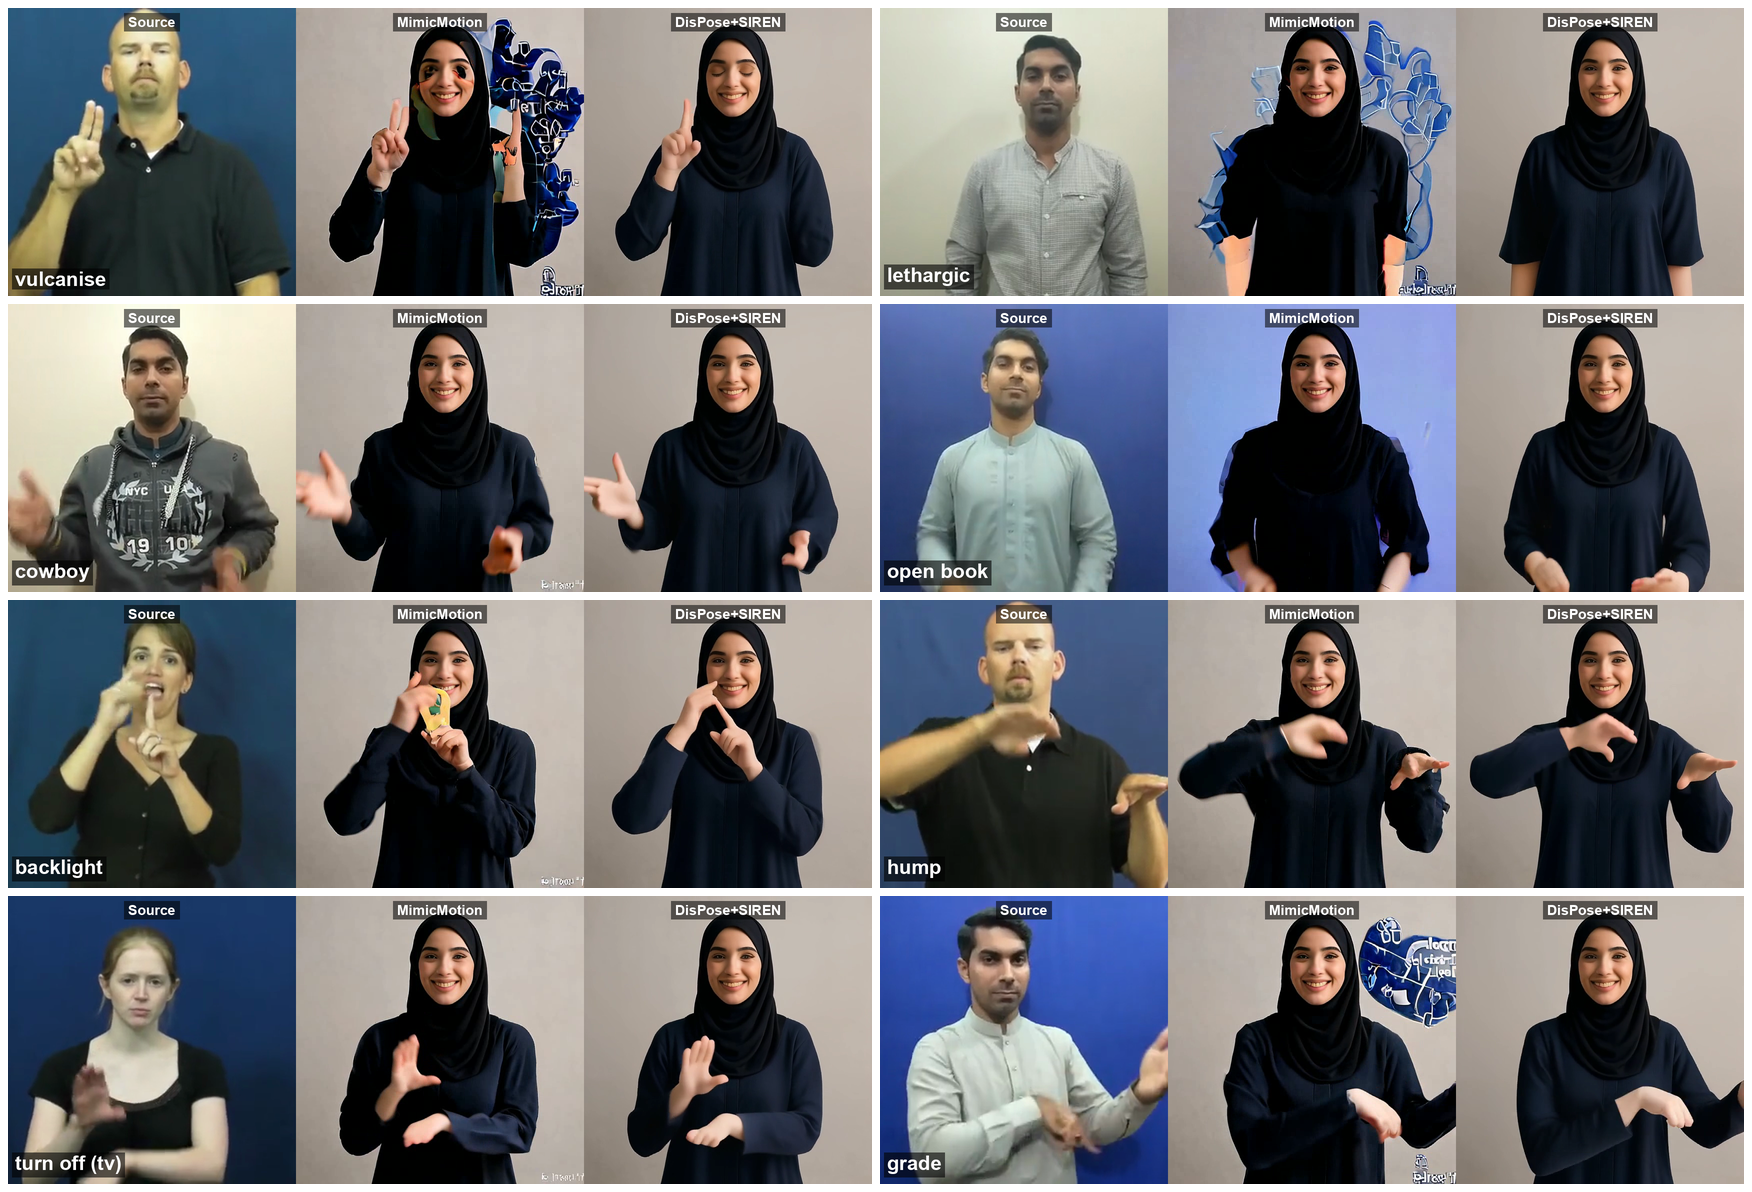
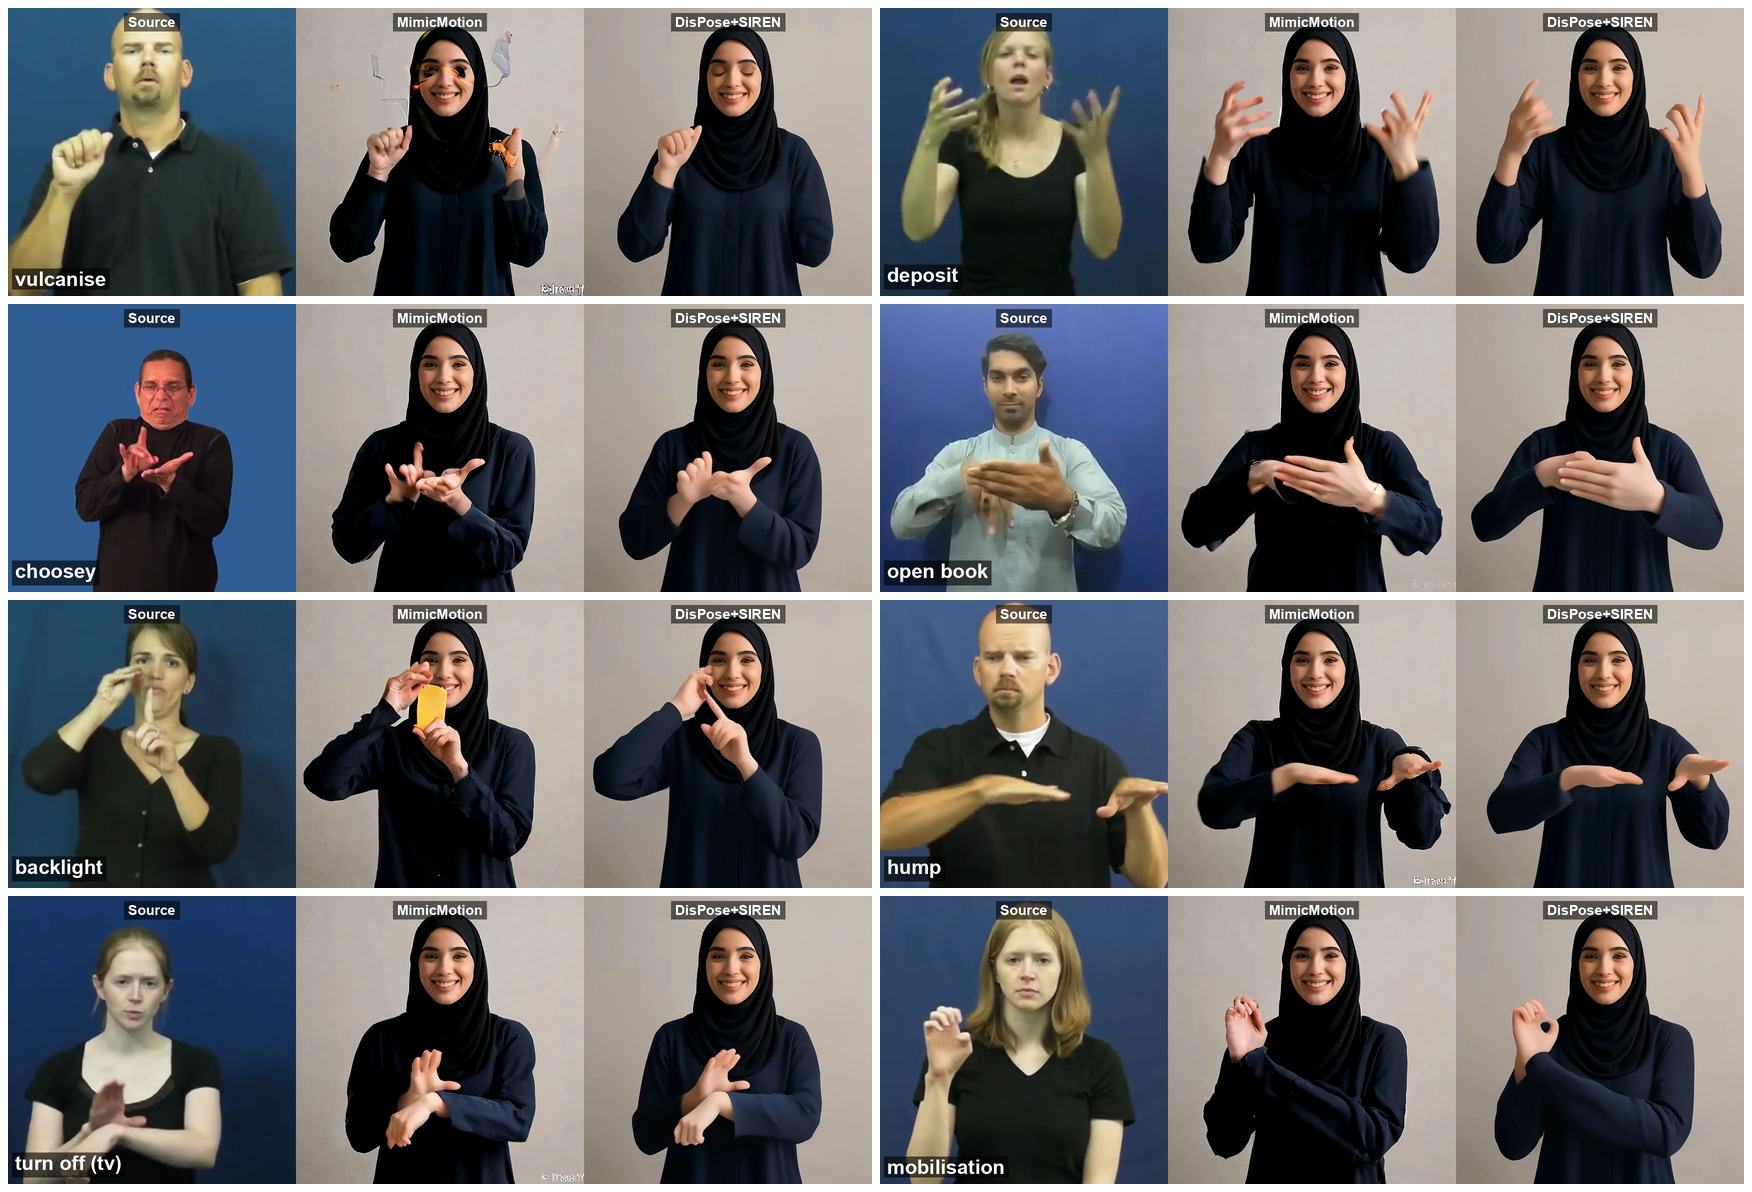
fix: qualitative grid v2 — SIREN panels now crisp hold frames
User verdict on v1: MM panels appropriately bad, but SIREN hands still
motion-blurred (e.g. hump). v2 protocol: candidate frames = local minima of
the SIREN video's frame-difference motion (sign-language holds, no blur),
then contact-sheet eyeball for max MM-broken/SIREN-crisp contrast at the
same source instant. Clips whose MM stays clean at holds dropped
(cowboy/grade/lethargic), replaced by deposit/choosey/mobilisation from the
same hard27k pilot pool.

diff --git a/scripts/hand_pilot/make_qual_grid.py b/scripts/hand_pilot/make_qual_grid.py
@@ -27,19 +27,21 @@ OUT = ROOT / "outputs/sign_cmp_hard27k"
 PANEL = 576          # working panel size; tile is downscaled 2x at the end
 PAD, MARGIN = 8, 8   # grid spacing (at final scale), matches original figure
 
-# (clip id, source frame index, gloss). Clips = the 8 mm_failures_grid picks;
-# frames re-picked 2026-07-11 from 12-candidate contact sheets to maximise the
-# MM-failure vs SIREN-clean-hand contrast at the SAME source instant
-# (mm_failures_grid frames kept where already optimal).
+# (clip id, source frame index, gloss). Clips drawn from the 15 hard27k pilot
+# clips (12 usable: podia's SIREN mp4 is corrupt, 2 clips lack gloss labels).
+# Frames picked 2026-07-11, v2 protocol: candidates = per-clip local minima of
+# the SIREN video's frame-difference motion (holds -> no motion blur), then
+# eyeballed on Source/MM/SIREN contact sheets for max "MM broken, SIREN crisp
+# handshape" contrast at the SAME source instant.
 SPECS = [
-    ("0bsujxxpwd", 425, "vulcanise"),      # MM: text-artifact burst
-    ("07imqjgcxc", 99, "lethargic"),       # MM: graffiti bg + arm stumps
-    ("05tcw2nou9", 35, "cowboy"),          # SIREN nails finger-gun, MM palm blob
-    ("0byrxo0heb", 56, "open book"),       # MM: source-background leakage
-    ("0db3uk2cqw", 150, "backlight"),      # MM: hallucinated yellow object
-    ("0bcxsenqga", 166, "hump"),           # SIREN arched-hand-over-palm, MM claw blur
-    ("0ihmqp5iz6", 53, "turn off (tv)"),   # SIREN L-hand on wrist, MM blob claw
-    ("0ejbehccd4", 21, "grade"),           # MM: text blob + fist smear
+    ("0bsujxxpwd", 446, "vulcanise"),      # MM text burst; SIREN crisp V-hand
+    ("03os6hy28y", 15, "deposit"),         # MM mangles double claw; SIREN bent fingers separated
+    ("0gjpljgpdj", 33, "choosey"),         # MM fingers tangled; SIREN clean thumb-hands
+    ("0byrxo0heb", 44, "open book"),       # MM finger smears + blue bg tint; SIREN spread-over-palm
+    ("0db3uk2cqw", 161, "backlight"),      # MM hallucinated yellow object; SIREN point-at-palm
+    ("0bcxsenqga", 117, "hump"),           # MM fuses fingers into slab; SIREN flat palm, fingers clear
+    ("0ihmqp5iz6", 59, "turn off (tv)"),   # MM blob claw on wrist; SIREN L-hand on wrist
+    ("0hwhrmyqqx", 98, "mobilisation"),    # MM claw blob; SIREN crisp OK-ring hand
 ]
 
 FONT_PATHS = [

diff --git a/docs/experiments/siren_hand/qualitative.md b/docs/experiments/siren_hand/qualitative.md
@@ -22,43 +22,50 @@
 
 ## 2. 选帧协议(showcase,须披露)
 
-8 个词条沿用 `baseline/qualitative.md` §7 `mm_failures_grid.png` 的 clip 选择
-(MimicMotion 失败最典型的难例)。帧号在每条 clip 的 12 候选帧接触表
-(Source/MM/SIREN 三行)上目检重挑,判据 = **同一时刻 MM 失败明显且 SIREN
-手部干净**;4 条旧帧已最优保留,4 条更换:
+clip 池 = hard27k 15 条 pilot(`baseline/qualitative.md` §7;实际可用 12 条:
+podia 的 SIREN mp4 传输损坏,2 条无词标签)。两阶段:
 
-| 词条 | clip:帧 | 看点 |
-|---|---|---|
-| vulcanise | `0bsujxxpwd:425` | MM 蓝色文字水印爆发;SIREN 干净(沿用) |
-| lethargic | `07imqjgcxc:99` | MM 涂鸦背景 + 断臂残肢;SIREN 干净(沿用) |
-| cowboy | `05tcw2nou9:35`(原 64) | 源"手枪"手形 SIREN 精准复现;MM 塌成掌糊 |
-| open book | `0byrxo0heb:56` | MM 整背景被源蓝色淹没;SIREN 干净(沿用) |
-| backlight | `0db3uk2cqw:150` | MM 手中幻觉出黄色物体;SIREN 双手指点清晰(沿用) |
-| hump | `0bcxsenqga:166`(原 174) | 源拱形五指罩掌 SIREN 复现;MM 模糊爪形 |
-| turn off (tv) | `0ihmqp5iz6:53`(原 28) | 源 L 形手搭腕 SIREN 复现;MM 糊爪 |
-| grade | `0ejbehccd4:21`(原 23) | MM 文字块 + 拳头拖影;SIREN 平掌搭臂清晰 |
+1. **候选帧 = SIREN 视频的运动低谷**(64×64 灰度帧差 + 5 帧平滑,取局部
+   最小、间隔 ≥12 帧)——手语"驻留"时刻,手形定格、无运动模糊。首版直接
+   沿用 `mm_failures_grid` 的帧号,SIREN 列多为快动帧、手糊,被否。
+2. 候选帧接触表(Source/MM/SIREN 三行)目检,判据 = **同一源时刻 MM 失败
+   明显 且 SIREN 手形清晰**;MM 在驻留帧不烂的 clip 整条弃用
+   (cowboy/grade/lethargic 因此出局,换入 deposit/choosey/mobilisation)。
+
+| 词条 | clip:帧 | MM 失败 | SIREN 手形 |
+|---|---|---|---|
+| vulcanise | `0bsujxxpwd:446` | 文字/涂鸦爆发 + 橙色碎块 | 捏合手定格 |
+| deposit | `03os6hy28y:15` | 双手爪形绞成团 | 双手弯指根根分明 |
+| choosey | `0gjpljgpdj:33` | 双手手指互缠 | 双拇指手形干净 |
+| open book | `0byrxo0heb:44` | 指间黑糊块 + 背景泛蓝 | 张开五指罩掌 |
+| backlight | `0db3uk2cqw:161` | 手中幻觉黄色物体 | 指点掌心清晰 |
+| hump | `0bcxsenqga:117` | 手指黏连成板 + 右手爪 | 平掌五指分明 |
+| turn off (tv) | `0ihmqp5iz6:59` | 腕上团爪 | L 形手搭腕 |
+| mobilisation | `0hwhrmyqqx:98` | 面前爪团 | 圆环(OK)手形 |
 
 **披露口径(论文 caption 必须带)**:定性图为 showcase——clip 取 MimicMotion
-失败典型例,帧为人工挑选;SIREN 列 = best-of-≤3 seeds 按 DWPose 手部置信度
-重排(与 §5.2 同一披露)。总体分布性结论以 `siren_module.md` §5 的 109 条
-配对统计为准(mean_hand_conf 101/109,p=6.4e-22)。
+失败典型例,帧取 SIREN 驻留时刻并人工挑选;SIREN 列 = best-of-≤3 seeds 按
+DWPose 手部置信度重排(与 §5.2 同一披露)。总体分布性结论以
+`siren_module.md` §5 的 109 条配对统计为准(mean_hand_conf 101/109,
+p=6.4e-22)。
 
 ## 3. 读图要点
 
-- MimicMotion 的五类失败(文字爆发 / 背景渗漏 / 幻觉物体 / 断臂 / 糊手,
-  taxonomy 见 `baseline/qualitative.md` §7)在 SIREN 列全部不出现;
-- 新挑的 4 帧(cowboy/hump/turn off/grade)专门展示**手形结构级差异**:
-  同一时刻 SIREN 复现源手形(手枪 / 拱形罩掌 / L 形搭腕 / 平掌),MM 为
-  blob/爪形——这是 mean_hand_conf 配对优势的可视化;
+- 8 格 SIREN 列全部是**定格清晰的手形**;MM 列同一时刻覆盖其失败 taxonomy
+  (文字爆发 / 背景渗漏 / 幻觉物体 / 糊手绞团,见 `baseline/qualitative.md`
+  §7)——这是 mean_hand_conf 配对优势的可视化;
+- deposit/choosey/mobilisation 三格是**手形结构级对比**的主力:双爪、
+  互缠、圆环这类多指构型,MM 一律塌缩,SIREN 逐指成形;
 - 身份列稳定(hijab 参考 `test2.jpg`),与 CSIM 结论一致。
 
 ## 4. 复现
 
 ```bash
-# 前置:8 条 SIREN best 视频在 outputs/sign_siren_best/best/(可从集群 rsync)
+# 前置:SIREN best 视频在 outputs/sign_siren_best/best/(可从集群 rsync;
+# tar 打包记得 -h 解引用,best/ 里是指向 sign_siren_full 分片的软链)
 python3 scripts/hand_pilot/make_qual_grid.py
 # → outputs/sign_cmp_hard27k/figs/mm_vs_siren_grid.png (1752x1192)
 ```
 
-换 clip/帧改脚本内 `SPECS`;候选帧接触表的生成逻辑见 git 历史或按 §2 协议
-重写(12 均匀候选 + 原帧,三行并排目检)。
+换 clip/帧改脚本内 `SPECS`;候选帧生成按 §2 协议(帧差运动低谷 +
+Source/MM/SIREN 接触表目检)。